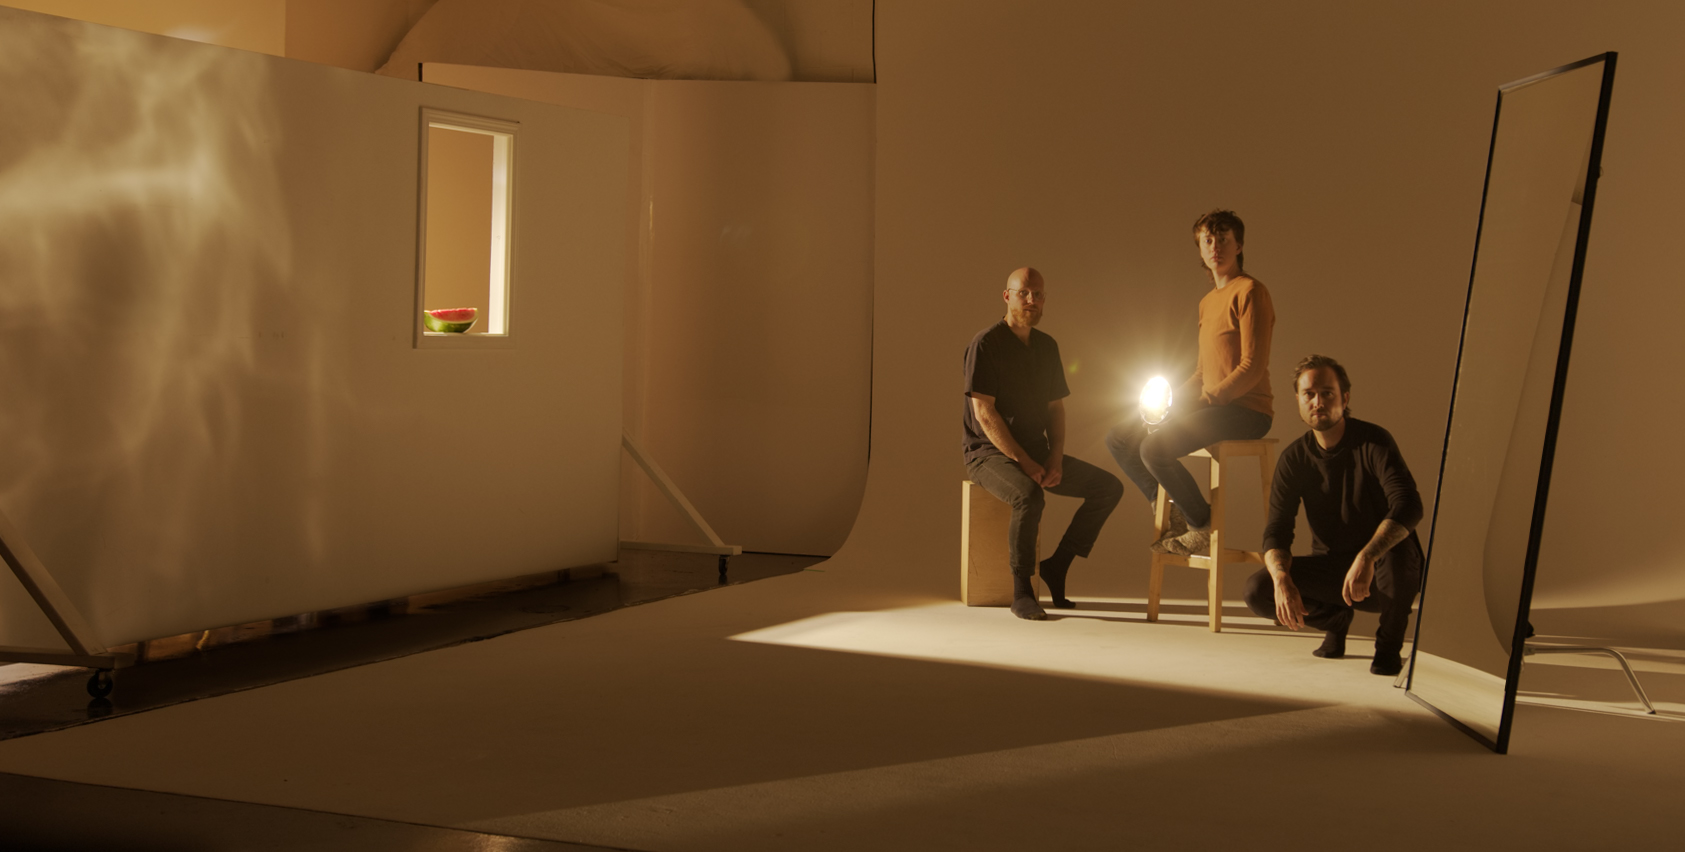
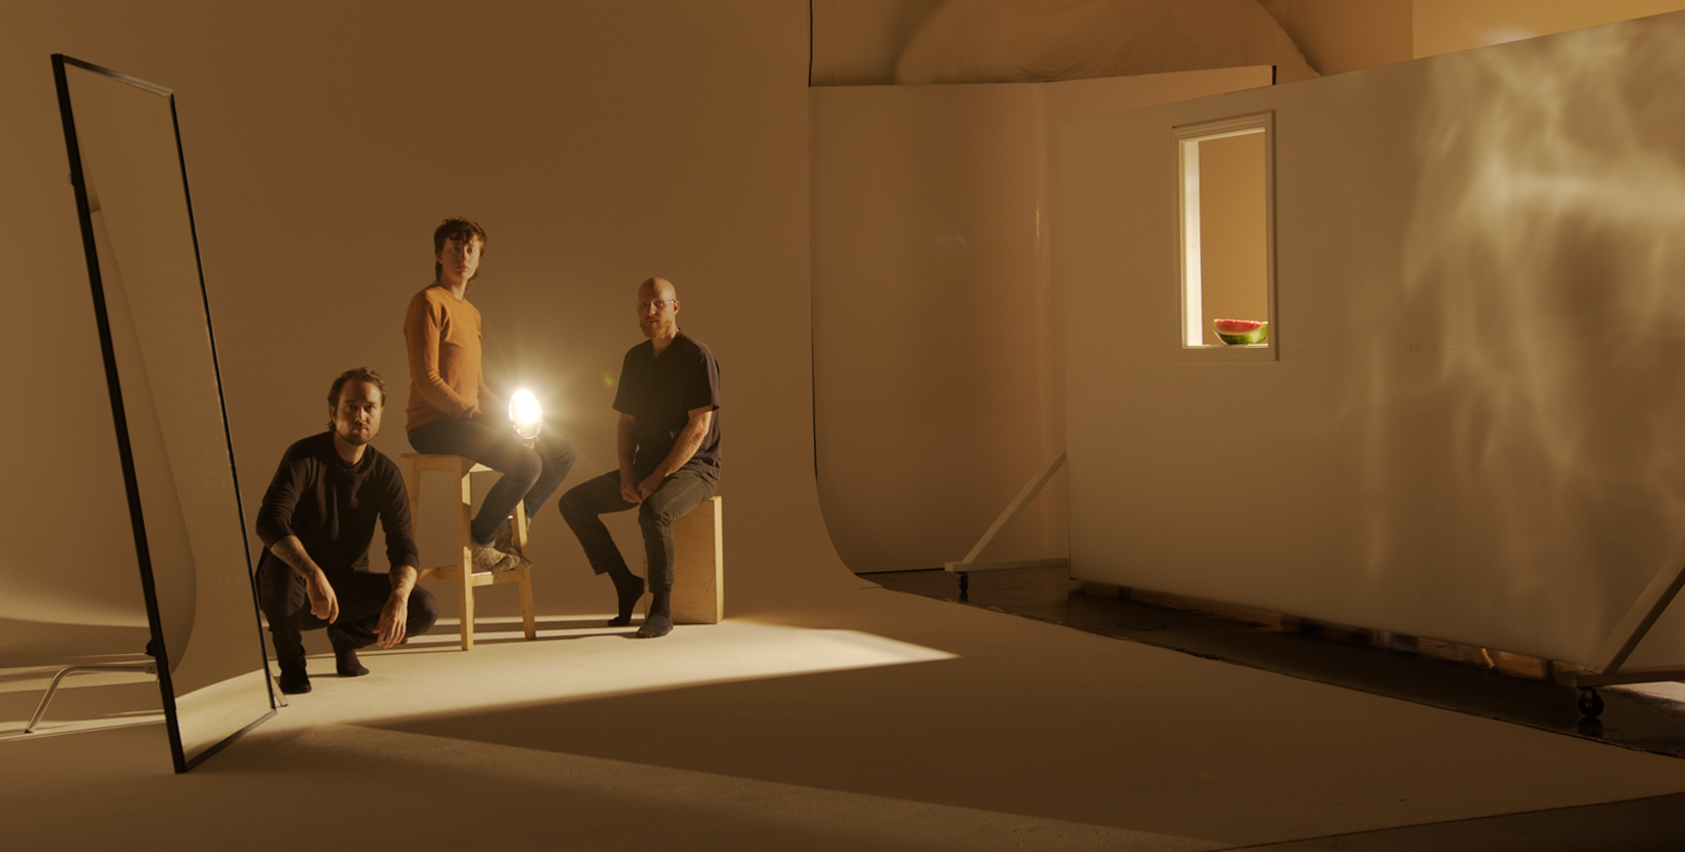
Added new fallback img for home

diff --git a/src/styles/home.scss b/src/styles/home.scss
@@ -40,7 +40,7 @@
   overflow: hidden;
 }
 .video_players {
-  @media screen and (max-width: 1200px) {
+  @media screen and (max-width: 900px) {
     visibility: hidden;
     // height: 300vh;
     // padding-bottom: 0;
@@ -52,14 +52,14 @@
   }
 }
 .embed-container {
-  @media screen and (max-width: 1200px) {
+  @media screen and (max-width: 900px) {
     top: -300px;
   }
 }
 
 .starting_img {
   z-index: -1;
-  @media screen and (min-width: 1200px) {
+  @media screen and (min-width: 900px) {
     // visibility: hidden;
     z-index: -1;
   }
@@ -69,7 +69,7 @@
 }
 .mobile_img {
   visibility: hidden;
-  @media screen and (max-width: 1200px) {
+  @media screen and (max-width: 900px) {
     visibility: visible;
   }
 }

diff --git a/src/styles/contact.scss b/src/styles/contact.scss
@@ -7,7 +7,7 @@
 }
 .logo_contact p {
   color: #d1cfcf;
-  margin: 1rem;
+  margin: 1.4rem;
   font-size: 1.4em;
 }
 .logo_contact h1 {
@@ -42,6 +42,11 @@
   flex-direction: column;
   margin: 4rem 6rem;
   color: #d1cfcf;
+}
+.topImg {
+  @media screen and (max-width: 900px) {
+    width: 200% !important;
+  }
 }
 
 .contact_info {

diff --git a/src/components/Contact.js b/src/components/Contact.js
@@ -47,7 +47,7 @@ const Contact = () => {
       <HamburgerMenu />
       <div className="contact_wrapper">
         <div className="logo_contact">
-          <p>Contact</p>
+          <p>CONTACT</p>
           <h1>Autonomist Films</h1>
         </div>
         <div className="contact_info_container">

diff --git a/src/components/Home.js b/src/components/Home.js
@@ -1,6 +1,6 @@
 import React, { useState, useEffect } from "react";
 
-import still from "../images/mainHome.jpg";
+import still from "../images/fallBack.jpg";
 import { Link } from "react-router-dom";
 
 import "../styles/home.scss";
